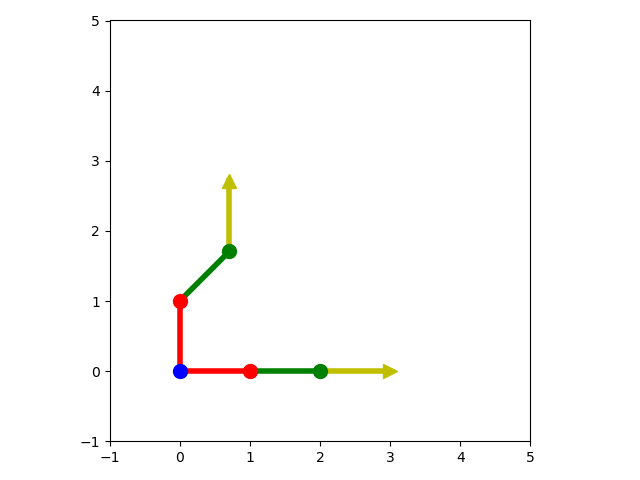
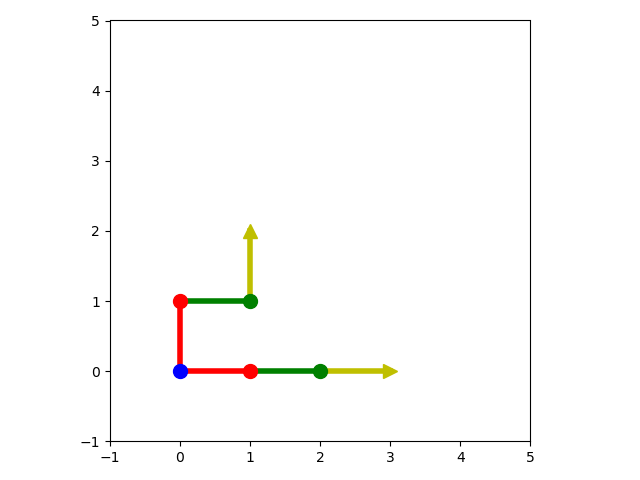
Se termina el codigo para un robot plano (esta hecho para 3 eslabones pero podria ampliarse)

Changed region(s): [[0.2812, 0.375, 0.4062, 0.6562]]

diff --git a/Fisica-II/Seminarios/Seminario-IV/cinematicaDirectaPlano.py b/Fisica-II/Seminarios/Seminario-IV/cinematicaDirectaPlano.py
@@ -75,8 +75,8 @@ def exp_matrix(S, theta):
 #Se preparan las opciones para que el codigo pueda recibir parametros
 parser = OptionParser()
 parser.add_option("-a", "--a1", type="float", default=90, help="Ángulo de rotación para la primera articulación (grados)")
-parser.add_option("-b", "--a2", type="float", default=-45, help="Ángulo de rotación para la segunda articulación (grados)")
-parser.add_option("-c", "--a3", type="float", default=45, help="Ángulo de rotación para la tercera articulación (grados)")
+parser.add_option("-b", "--a2", type="float", default=-90, help="Ángulo de rotación para la segunda articulación (grados)")
+parser.add_option("-c", "--a3", type="float", default=90, help="Ángulo de rotación para la tercera articulación (grados)")
 (options, args) = parser.parse_args()
 
 #Se pasan los angulos a radianes
